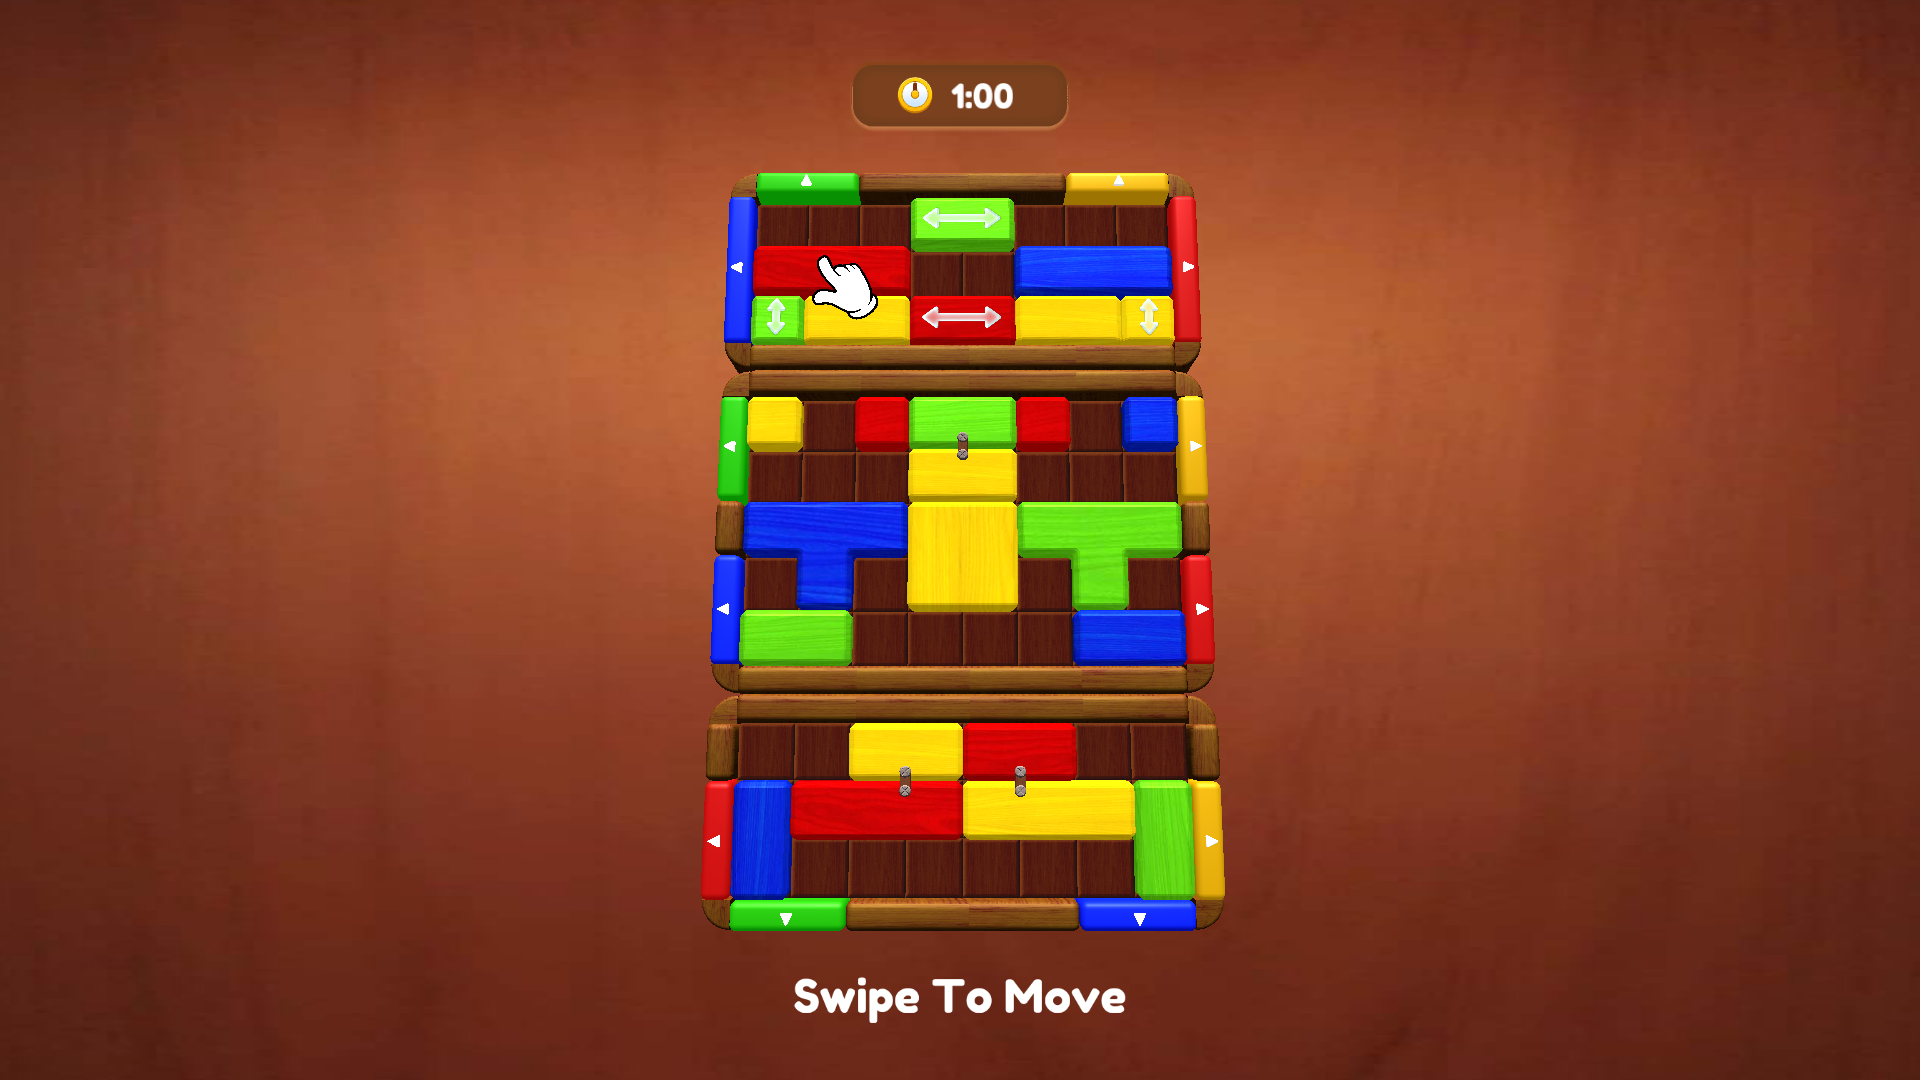
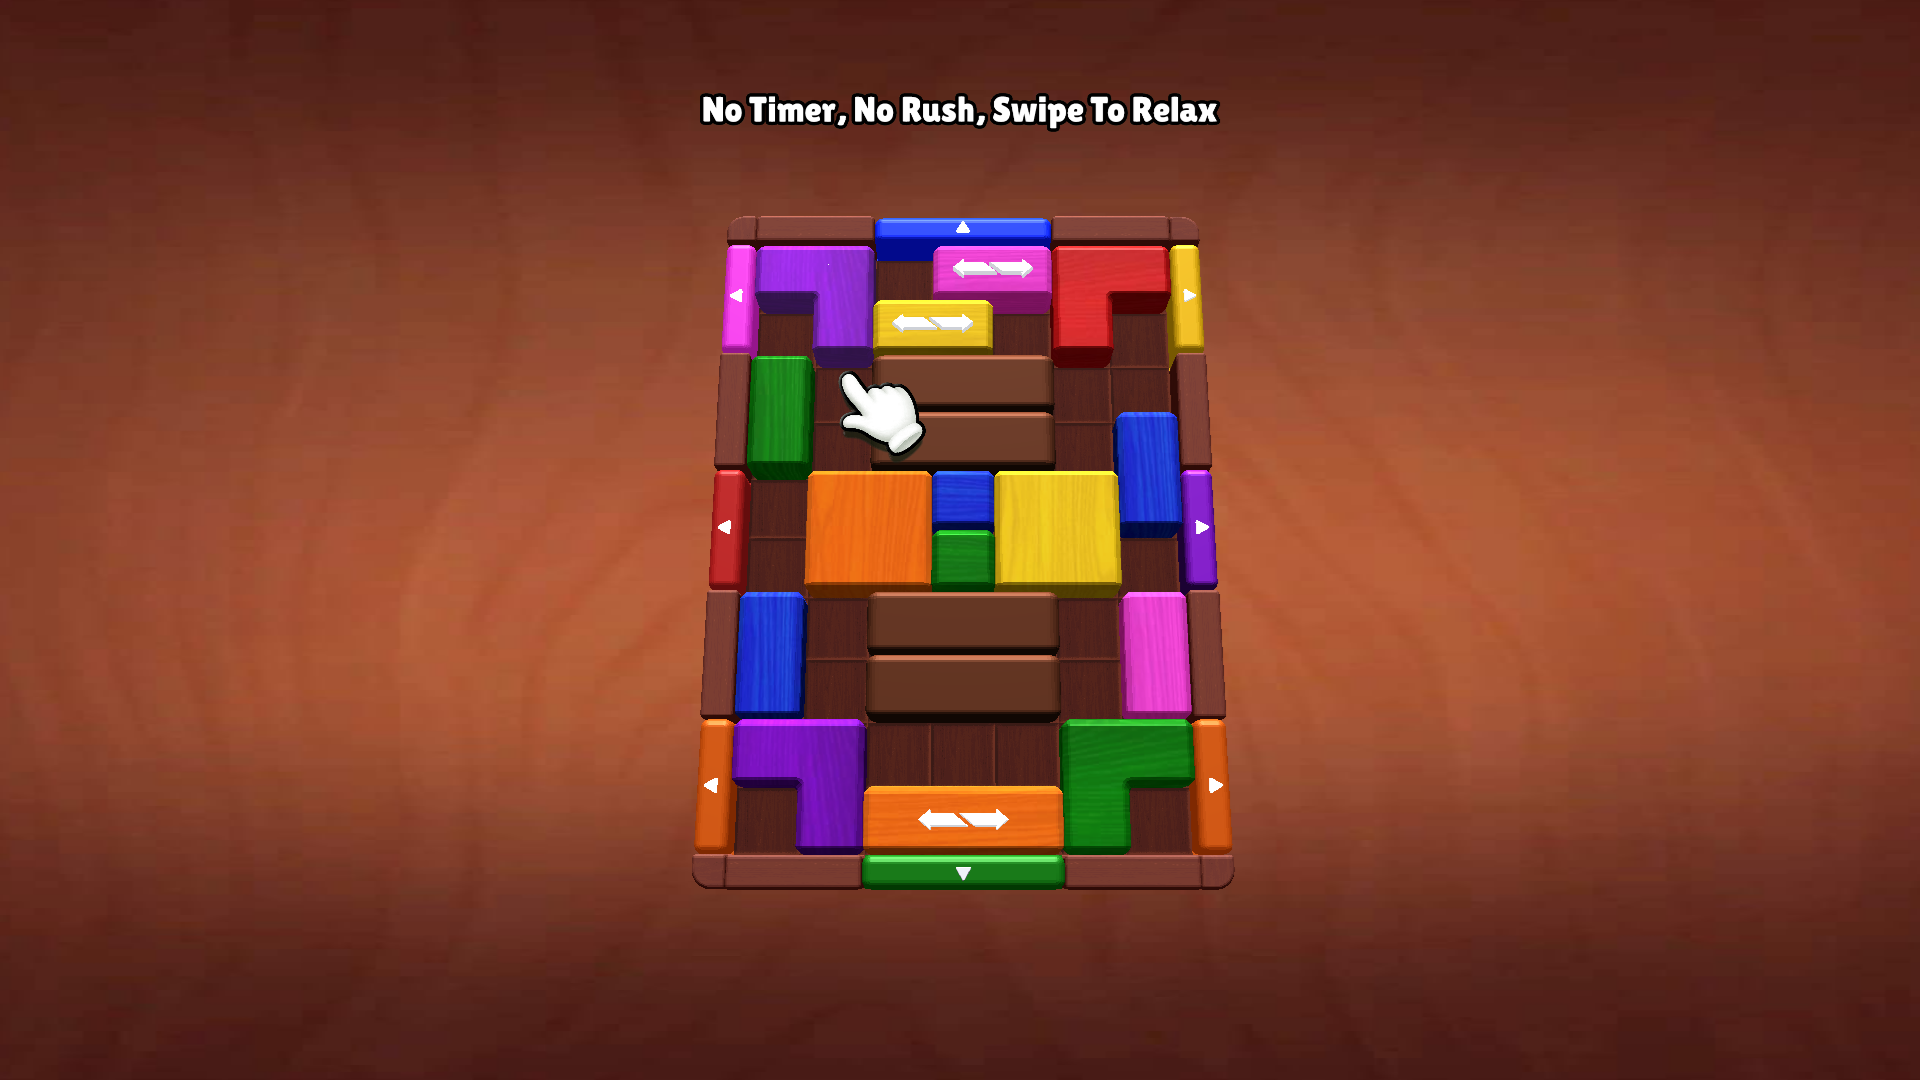
New

diff --git a/index.html b/index.html
@@ -23,7 +23,7 @@
 	
 	<nav class="navbar navbar-expand-lg navbar-dark ftco_navbar bg-dark ftco-navbar-light site-navbar-target" id="ftco-navbar">
 		<div class="container">
-			<a class="navbar-brand" href="index.html">DTDAT<span>.</span></a>
+			<a class="navbar-brand" href="index.html">TIBBER DINH<span>.</span></a>
 			<button class="navbar-toggler js-fh5co-nav-toggle fh5co-nav-toggle" type="button" data-toggle="collapse" data-target="#ftco-nav" aria-controls="ftco-nav" aria-expanded="false" aria-label="Toggle navigation">
 				<span class="oi oi-menu"></span> Menu
 			</button>
@@ -50,9 +50,9 @@
 						</div>
 						<div class="one-forth d-flex  align-items-center ftco-animate" data-scrollax=" properties: { translateY: '70%' }">
 							<div class="text">
-								<span class="subheading">Hello! This is Tien Dat</span>
+								<span class="subheading">Hello! This is Tibber</span>
 								<h1 class="mb-4 mt-3">A Unity </br>Developer specializing </br>in <span>PAA</span></h1>
-								<p><a href="#" class="btn btn-primary btn-outline-primary">Download My CV</a></p>
+								<p><a href="#" class="btn btn-primary btn-outline-primary">Download My Lastest CV</a></p>
 							</div>
 						</div>
 					</div>
@@ -72,9 +72,9 @@
 							<span class="flaticon-app-development"></span>
 						</div>
 						<div class="text">
-							<span>Created over</span>
-							<strong class="number" data-number="10000000">0</strong>
-							<span>Ads Impressions</span>
+							<span>Creating over</span>
+							<strong class="number" data-number="100000">0</strong>
+							<span>Impressions per week</span>
 						</div>
 					</div>
 				</div>
@@ -85,7 +85,7 @@
 						</div>
 						<div class="text">
 							<span>MORE THAN</span>
-							<strong class="number" data-number="100">0</strong>
+							<strong class="number" data-number="500">0</strong>
 							<span>Creatives Made</span>
 						</div>
 					</div>
@@ -97,7 +97,7 @@
 						</div>
 						<div class="text">
 							<span>At least</span>
-							<strong class="number" data-number="10">0</strong>
+							<strong class="number" data-number="30">0</strong>
 							<span>Projects response</span>
 						</div>
 					</div>
@@ -109,7 +109,7 @@
 						</div>
 						<div class="text">
 							<span>Having over</span>
-							<strong class="number">1</strong>
+							<strong class="number">2</strong>
 							<span>Years experienced</span>
 						</div>
 					</div>
@@ -134,13 +134,13 @@
 							<div class="col-md-12 heading-section ftco-animate">
 								<span class="subheading">this is</span>
 								<h2 class="mb-4" style="font-size: 34px; text-transform: capitalize;">About Me</h2>
-								<p> I’m a PAA developer with 1 year of experience building interactive ads using Unity and Luna, game projects and also the co-founder of <strong>MetalSail Studio</strong>. I've worked on <strong>10+ puzzle & hyper-casual games</strong>, shipped <strong>100+ creatives ads</strong>, and hit over <strong>10 million impressions</strong>.<br> I'm all in on crafting unique, entertaining ad experiences that stand out from the crowd.</p>
+								<p> I’m a PAA developer with years of experience building interactive ads and video game using Unity. I am the co-founder of <strong>MetalSail Studio</strong>. I've worked on <strong>30+ puzzle & hyper-casual games</strong>, shipped <strong>hundred creatives ads</strong>, and hit <strong>tens of million impressions</strong>.<br> I'm all in on crafting unique, entertaining ad experiences that stand out from the crowd.</p>
 
 								<ul class="about-info mt-4 px-md-0 px-2">
-									<li class="d-flex"><span>Name:</span> <span>Dinh Tien Dat</span></li>
+									<li class="d-flex"><span>Name:</span> <span>Dinh Tien "Tibber" Dat</span></li>
 									<li class="d-flex"><span>Date of birth:</span> <span>September 23, 2003</span></li>
 									<li class="d-flex"><span>Address:</span> <span>Ha Noi, Viet Nam</span></li>
-									<li class="d-flex"><span>Work position: </span> <span>Unity/Luna PAA Development</span></li>
+									<li class="d-flex"><span>Work position: </span> <span>Unity Game/PAA Development</span></li>
 									<li class="d-flex"><span>Email:</span> <span>scd239@gmail.com / metalsailstudio@gmail.com</span></li>
 									<li class="d-flex"><span>Phone: </span> <span>+84 368623903</span></li>
 								</ul>
@@ -156,7 +156,7 @@
 	
 
 	
-	<!--
+	
 	<section class="ftco-hireme">
 		<div class="container">
 			<div class="row justify-content-between">
@@ -164,8 +164,8 @@
 				<div class="col-md-8 col-lg-8 d-flex align-items-center">
 					<div class="w-100 py-4">
 						<h2>Thanks for dropping by my portfolio.</h2>
-						<p>It's really great to see you reach here and give a read on my carrer, one more time! thanks for dropping by my portfolio and feel free contact me for work. <br>Checkout my works right below!</p>
-						<p class="mb-0"><a href="#" class="btn btn-white py-3 px-4">Contact me</a></p>
+						<p>It's really great to see you reach here and give a read on my carrer, one more time! thanks for dropping by my portfolio and feel free contact me for work. <br>Checkout my works right below! or if you here to connect:</p>
+						<p class="mb-0"><a href="#" class="btn btn-white py-3 px-4">Drop right to contact</a></p>
 					</div>
 				</div>
 				<div class="col-md-4 col-lg-4 d-flex align-items-end">
@@ -174,7 +174,7 @@
 			</div>
 		</div>
 	</section>
--->
+
 	<section class="ftco-section ftco-project" id="projects-section">
 		<div class="container-fluid px-md-4">
 			<div class="row justify-content-center pb-5">
@@ -189,8 +189,35 @@
 					<div class="project img shadow ftco-animate d-flex justify-content-center align-items-center" style="background-image: url(images/Wood.png);">
 						<div class="overlay"></div>
 						<div class="text text-center p-4" a href="#">
-							<h3><a target="_blank" href="https://playground.lunalabs.io/preview/245895/335841/ba5f55a43495c91a4cb94f18861f4751ffbab78ccb171dc43ae287a380e69bb0">Wood Block Slide</a></h3>
+							<h3><a target="_blank" href="https://playground.lunalabs.io/preview/316531/422611/ba5f55a43495c91a4cb94f18861f4751ffbab78ccb171dc43ae287a380e69bb0">Wood Block Slide</a></h3>
 							<span>3D Puzzle Game with Well-Designed Level</span>
+						</div>
+					</div>
+				</div>
+				<div class="col-md-3">
+					<div class="project img shadow ftco-animate d-flex justify-content-center align-items-center" style="background-image: url(images/Worm.png);">
+						<div class="overlay"></div>
+						<div class="text text-center p-4" a href="#">
+							<h3><a target="_blank" href="https://playground.lunalabs.io/preview/302794/405341/ba5f55a43495c91a4cb94f18861f4751ffbab78ccb171dc43ae287a380e69bb0">Worm Color Blast</a></h3>
+							<span>3D Puzzle Block Blast Path Finder Game</span>
+						</div>
+					</div>
+				</div>
+				<div class="col-md-3">
+					<div class="project img shadow ftco-animate d-flex justify-content-center align-items-center" style="background-image: url(images/Wool.png);">
+						<div class="overlay"></div>
+						<div class="text text-center p-4" a href="#">
+							<h3><a target="_blank" href="https://playground.lunalabs.io/preview/297163/398413/ba5f55a43495c91a4cb94f18861f4751ffbab78ccb171dc43ae287a380e69bb0">Wool Block Jam</a></h3>
+							<span>3D Puzzle Game with Well-Designed Level</span>
+						</div>
+					</div>
+				</div>
+				<div class="col-md-3">
+					<div class="project img shadow ftco-animate d-flex justify-content-center align-items-center" style="background-image: url(images/Jigsaw.png);">
+						<div class="overlay"></div>
+						<div class="text text-center p-4" a href="#">
+							<h3><a target="_blank" href="https://playground.lunalabs.io/preview/312214/417090/ba5f55a43495c91a4cb94f18861f4751ffbab78ccb171dc43ae287a380e69bb0">Jigsaw Solitaire</a></h3>
+							<span>A Jigsaw Puzzle Drag & Drop Game</span>
 						</div>
 					</div>
 				</div>
@@ -224,6 +251,16 @@
 						</div>
 					</div>
 				</div>
+				<div class="col-md-3">
+					<div class="project img shadow ftco-animate d-flex justify-content-center align-items-center" style="background-image: url(images/Bomb.png);">
+						<div class="overlay"></div>
+						<div class="text text-center p-4" a href="#">
+							<h3><a target="_blank" href="https://playground.lunalabs.io/preview/317174/423372/ba5f55a43495c91a4cb94f18861f4751ffbab78ccb171dc43ae287a380e69bb0">
+								Time bomb prank</a></h3>
+							<span>A Top-Market simualtion prank app</span>
+						</div>
+					</div>
+				</div>
 			</div>
 		</div>
 	</section>
@@ -232,9 +269,9 @@
 		<div class="container">
 			<div class="row justify-content-center pb-5">
 				<div class="col-md-12 heading-section heading-section-white text-center ftco-animate">
-					<span class="subheading">Tools, Platforms & Company Experience</span>
-					<h2 class="mb-4">What I Work With</h2>
-					<p>Here are the tools and environments I work with every day.</p>
+					<span class="subheading">Multiple Network delivery</span>
+					<h2 class="mb-4">Ad Networks compatible</h2>
+					<p>Here are networks that i can provide the output for your playable ads.</p>
 				</div>
 			</div>
 			<div class="row ftco-animate">
@@ -243,14 +280,14 @@
 						<div class="item">
 							<div class="testimony-wrap py-4">
 								<div class="text">
-									<img src="images/brands_MTG.png" alt="">
+									<img src="images/Meta.jpg" alt="">
 								</div>
 							</div>
 						</div>
 						<div class="item">
 							<div class="testimony-wrap py-4">
 								<div class="text">
-									<img src="images/brands_Joybit.png" alt="">
+									<img src="images/Google.png" alt="">
 								</div>
 							</div>
 						</div>
@@ -264,7 +301,7 @@
 						<div class="item">
 							<div class="testimony-wrap py-4">
 								<div class="text">
-									<img src="images/brands_Luna.png" alt="">
+									<img src="images/IronSource.png" alt="">
 								</div>
 							</div>
 						</div>
@@ -320,7 +357,7 @@
 								<span class="fa fa-paper-plane"></span>
 							</div>
 							<div class="text">
-								<p><span>Email:</span> <a href="mailto:scd239@gmail.com">scd239@gmail.com</a></p>
+								<p><span>Email:</span> <a href="mailto:scd239@gmail.com">scd239@gmail.com</a></p> <a href="mailto:scd239@gmail.com">metalsailstudio@gmail.com</a></p>
 							</div>
 						</div>
 					</div>
